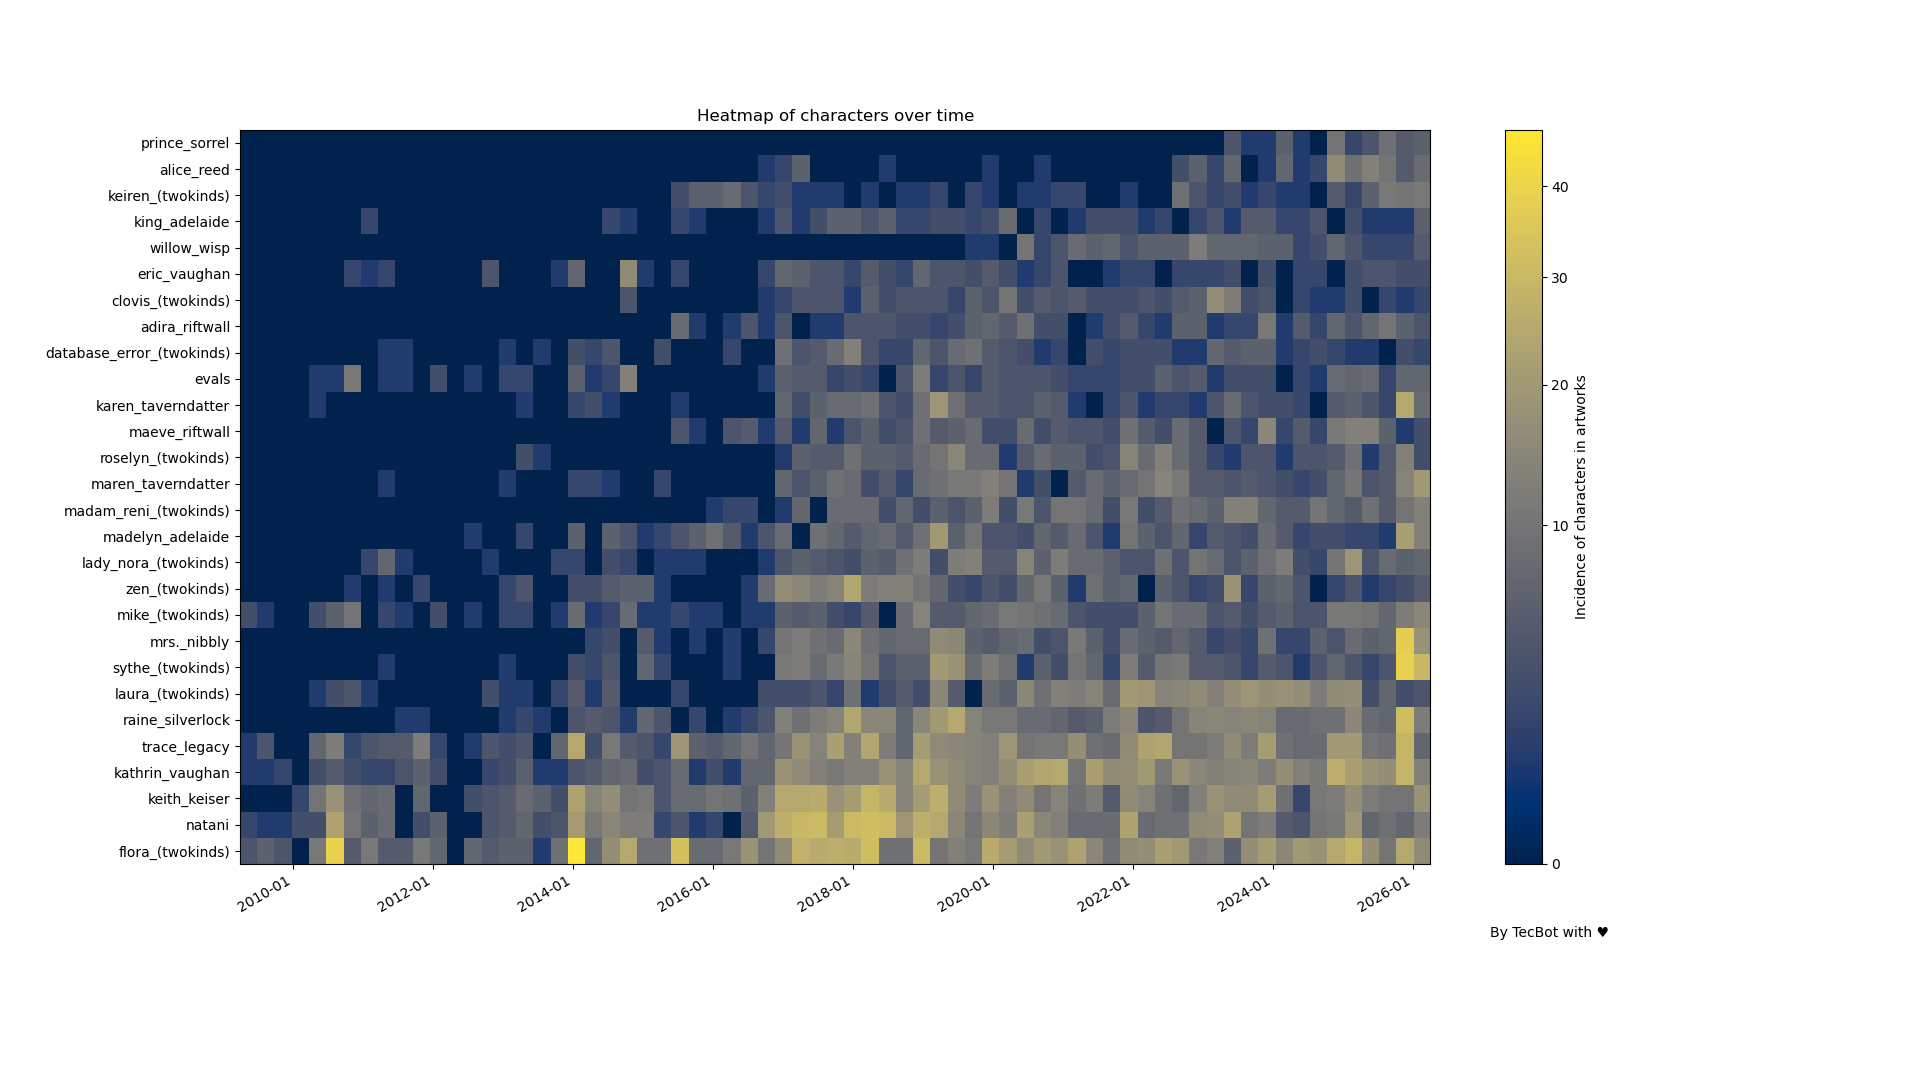
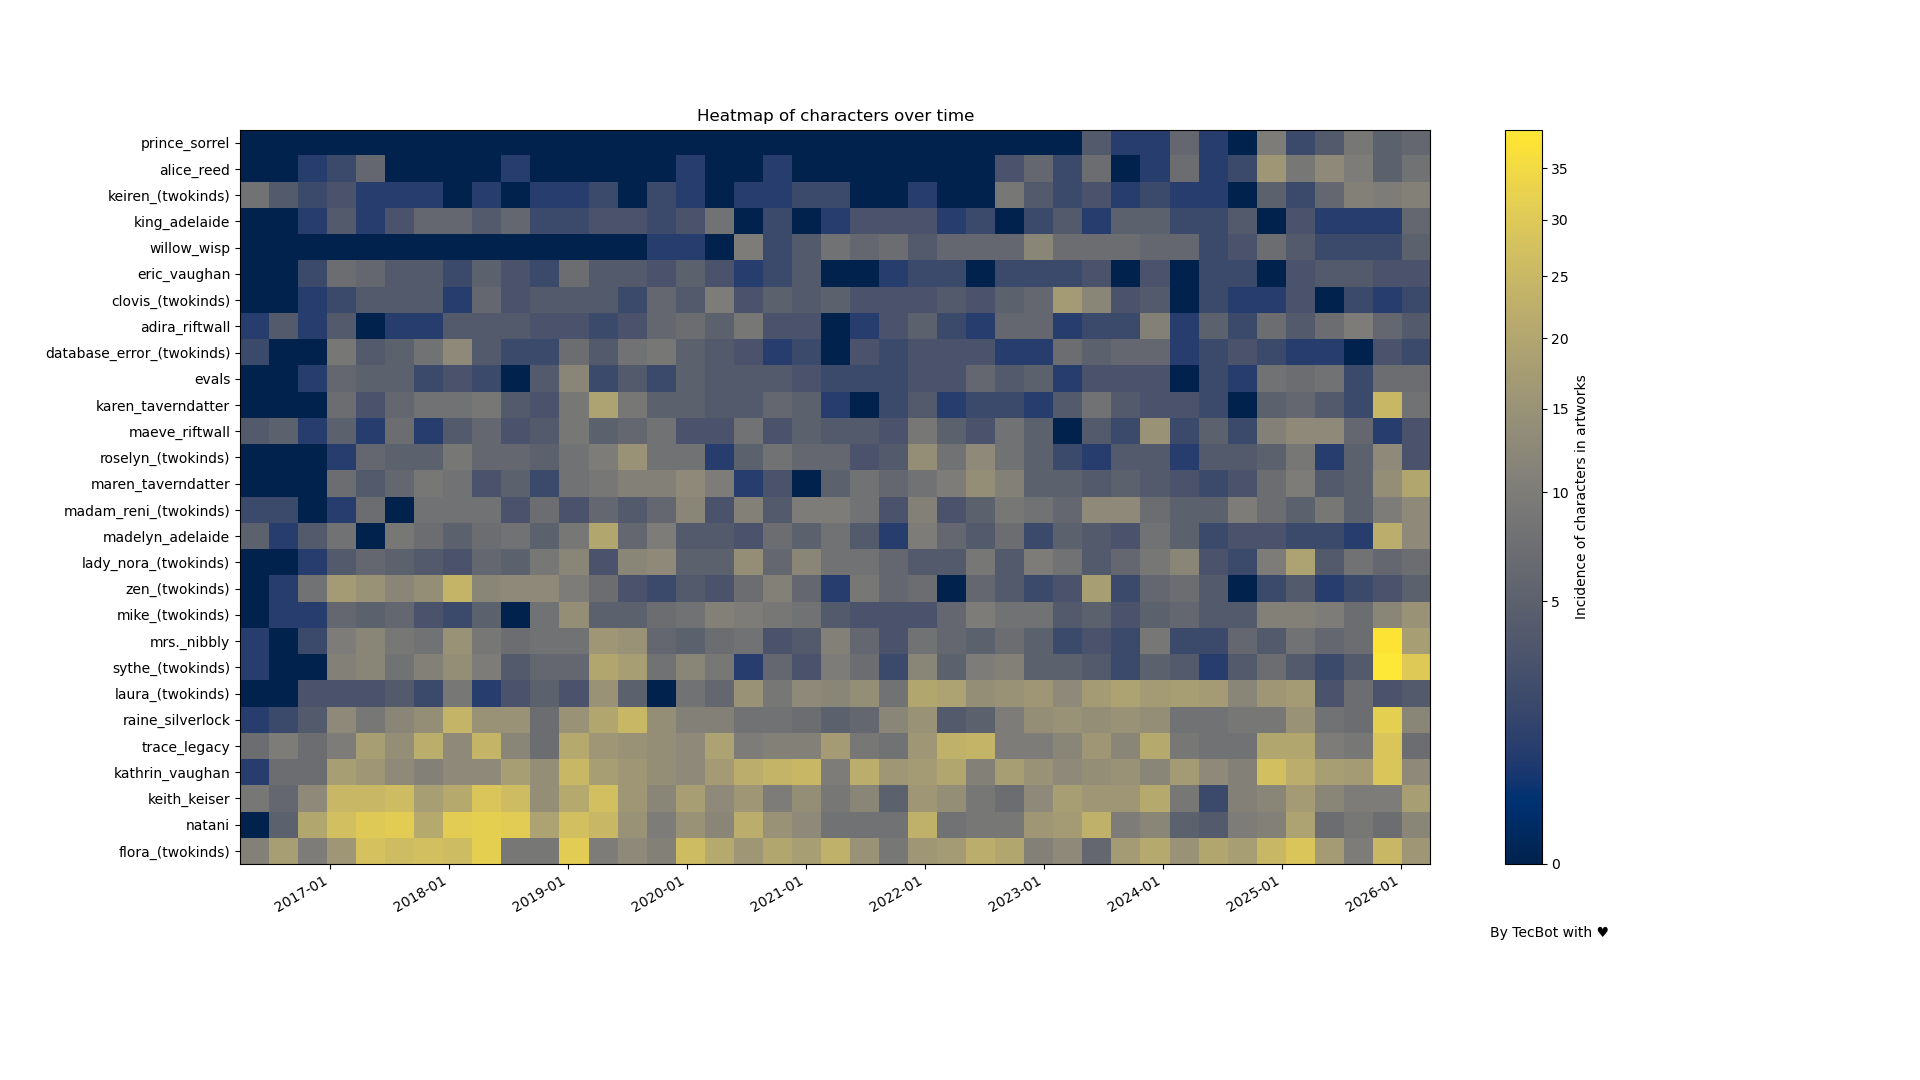
Add partial posts march 26

Changed region(s): [[0.125, 0.1222, 0.75, 0.8556], [0.6875, 0.825, 0.7188, 0.8556]]

diff --git a/posts/2026-march-26.md b/posts/2026-march-26.md
@@ -1,0 +1,48 @@
+# Twokinds of Data
+## Suggester trends over time
+
+## March 26 2026
+
+So I am back at this, [last time](./2026-jan-25.md) presented my first heatmap based around the analysis of which twokinds characters were sketched or drawn over time since patreon inception based on e6 data. 
+
+But then i wondered is there any other information that would be interesting to know? As discussed on the prior two posts i made they provide little information other than most post having women in it which is an insigth until you realize it is obvious.
+
+Then I realized i always wanted to know who has the most suggested sketches so far, but that information is buried on patreons descriptions. But I have catalogued every since patreon posts for my [Twokinds Gallery](https://tecrobot.org/twokinds/gallery/) which includes the description... And i know regex.
+
+So after some work in a new [script](tag_analyzer/graph_suggesters.py) that was able to extract the suggesters from the description i was ready to graph this in the same way i did with character tags!
+
+## Methodology
+
+As a brief summary of what i did here. For my gallery i collect and collate every art post on Tom [patreon](https://www.patreon.com/c/twokinds/posts) including the description. Whenever Tom post suggested sketches or finished artwork he adds some attribution in the form of `suggested by <someone>` which is something i can extract. 
+
+Once the suggester information was split from the rest is relatively easy to extract it in much the same way I used for the e6 tags. After that i got the top 25 suggesters with the most pieces credited to them and sliced the data accordingly and then i could pivot the dataframe into a heatmap again.
+
+But before showing the results some small notes on changes
+1- Fixed the alignement on the heatmap bins in the y axis
+2- Changed color map, cividis is meant to prevent perceptual aliasing
+3- Minor improvements in format 
+
+Oh also reran my numbers on the tags with up to date data, will be at the bottom of this one. If you want the methodology for that one please refer to the prior post linked somehwere above
+
+## Suggester activity over time
+
+And so here we go:
+
+![Suggesters](../results/graphs/tom_fischbach/march-2026/suggesters.png "Suggester activity over time")
+
+Since we moved ove from polls to all-Tom picks also made a special  grapph with only data from the past year till today:
+
+![SuggestersRecent](../results/graphs/tom_fischbach/march-2026/recent_suggesters.png "Suggester activity over time")
+
+## Tags over time
+
+To accompany the data above did the same exercise as last time from e6 data: 
+
+![Tags](../results/graphs/tom_fischbach/march-2026/tag_over_time_heatmap.png "Suggester activity over time")
+
+And of course added 
+
+![TagsRecent](../results/graphs/tom_fischbach/march-2026/tag_over_time_recentheatmap.png "Suggester activity over time")
+
+
+
